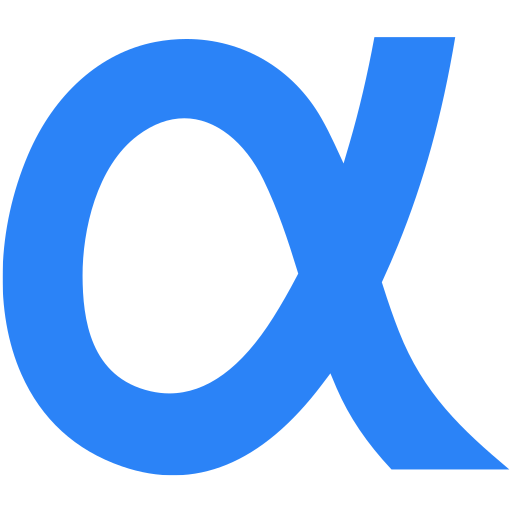
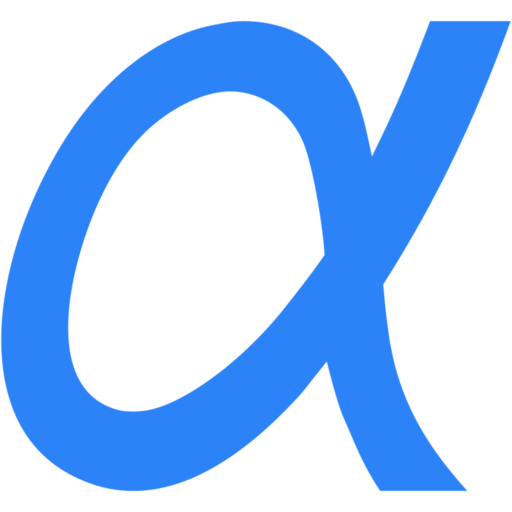
Fixing details (#8)
* corrected hrefs and some typo

* updated roadmap

* added final logo

* added hero logo

* clean old logos

* fixed links in footer

* updated favicon

* updated roadmap

diff --git a/pages/fr/home.html b/pages/fr/home.html
@@ -8,7 +8,7 @@ lang: fr
 
 <div class="top">
 	<div class="top-inside">
-		<h1>kema-dev</h1>
+		<img src="/assets/img/kema_mark_white.svg" class="title_logo" />
 		<h3 class="subtitle">Cybersécurité & Automatisation</h3>
 	</div>
 	<div class="hint">
@@ -23,16 +23,16 @@ lang: fr
 			<h4>Jérémy Jourdan</h4>
 			<p>25 ans</p>
 			<p>Étudiant a l'école 42</p>
-			<p>Passionné de programmation et d'high-tech</p>
-			<div class="link_linkedin">
+			<p>Passionné de cybersécurité et d'high-tech</p>
+			<a href="https://www.linkedin.com/in/jeremy-jourdan-kemadev/" target="_blank" class="link_linkedin">
 				<div class="linklogo"></div>
-				<a class="linktxt" href="https://www.linkedin.com/in/jeremy-jourdan-kemadev/" target="_blank" title="Mon profil LinkedIn">Mon profil LinkedIn</a>
-			</div>
-			<div class="link_cv">
+				<div class="linktxt" title="Mon profil LinkedIn">Mon profil LinkedIn</div>
+			</a>
+			<a href="/{{ page.lang }}/resume" class="link_cv">
 				<div class="linklogo"></div>
-				<a class="linktxt" href="/{{ page.lang }}/resume" title="Mon CV">Mon CV</a>
-			</div>
-		</div>
+				<div class="linktxt" title="Mon CV">Mon CV</div>
+			<a>
+		</a>
 	</div>
 </div>
 <div class="sep1"></div>
@@ -44,17 +44,20 @@ lang: fr
 		<div class="txt">
 			<h4>École 42 @ Lyon, France</h4>
 			<p>École unique en son genre, basée sur le peer-learning</p>
-			<div class="link_info">
+			<p>Pas de cours, pas de professeur, pas de classe</p>
+			<p>Pédagogie basée sur les projets</p>
+			<p>Gamification</p>
+			<a href="https://42lyon.fr/" target="_blank" class="link_info">
 				<div class="linklogo"></div>
-				<a class="linktxt" href="https://42lyon.fr/" target="_blank" title="Site web de mon ecole">En savoir plus</a>
-			</div>
+				<div class="linktxt" title="Site web de mon ecole">En savoir plus</div>
+			</a>
 		</div>
 	</div>
 </div>
 <div class="sep2"></div>
 
 <div class="article">
-	<h3 class="artitle">Qu'est ce qui est important pour moi : Faire des choix raisonnés</h3>
+	<h3 class="artitle">Ce qui est important pour moi : Faire des choix raisonnés</h3>
 	<div class="imgtxt">
 		<img class="img" src="../assets/img/tech_identity.jpg" alt="identite technologique" />
 		<div class="txt">
@@ -62,7 +65,8 @@ lang: fr
 			</p>
 			<div class="quote_etzioni">
 				<div class="quotelogo"></div>
-				<p class="citation">"AI is a tool. The choice about how it gets deployed is ours" - Oren Etzioni</p>
+				<p class="citation">"AI is a tool. The choice about how it gets deployed is ours"</p>
+				<p class="citation"> - Oren Etzioni</p>
 			</div>
 		</div>
 	</div>
@@ -70,7 +74,7 @@ lang: fr
 <div class="sep3"></div>
 
 <div class="article">
-	<h3 class="artitle">Qu'est ce qui est important pour moi : Protéger la vie privée</h3>
+	<h3 class="artitle">Ce qui est important pour moi : Protéger la vie privée</h3>
 	<div class="imgtxt">
 		<img class="img" src="../assets/img/privacy_face_full.jpg" alt="visage et vie privee" />
 		<div class="txt">
@@ -78,7 +82,8 @@ lang: fr
 			</p>
 			<div class="quote_snowden">
 				<div class="quotelogo"></div>
-				<p class="citation">"Arguing that you don't care about the right to privacy because you have nothing to hide is no different than saying you don't care about free speech because you have nothing to say" - Edward Snowden</p>
+				<p class="citation">"Arguing that you don't care about the right to privacy because you have nothing to hide is no different than saying you don't care about free speech because you have nothing to say"</p>
+				<p class="citation"> - Edward Snowden</p>
 			</div>
 		</div>
 	</div>
@@ -86,19 +91,20 @@ lang: fr
 <div class="sep4"></div>
 
 <div class="article">
-	<h3 class="artitle">Qu'est ce qui est important pour moi : Partager le savoir</h3>
+	<h3 class="artitle">Ce qui est important pour moi : Partager le savoir</h3>
 	<div class="imgtxt">
 		<img class="img" src="../assets/img/github_mark_logo.svg" alt="github mark" />
 		<div class="txt">
 			<p>Rendre les outils accessibles à tout le monde en promouvant le libre et l'open-source est une bonne manière de partager le savoir à quiconque est intéressé.
 			</p>
-			<div class="link_git">
+			<a href="https://github.com/kema-dev" target="_blank" class="link_git">
 				<div class="linklogo"></div>
-				<a class="linktxt" href="https://github.com/kema-dev" target="_blank" title="Ma page GitHub">Ma page GitHub</a>
-			</div>
+				<div class="linktxt" title="Ma page GitHub">Ma page GitHub</div>
+			</a>
 			<div class="quote_torvalds">
 				<div class="quotelogo"></div>
-				<p class="citation">"Only wimps use tape backup. Real men just upload their important stuff on ftp and let the rest of the world mirror it" - Linus Torvalds</p>
+				<p class="citation">"Only wimps use tape backup. Real men just upload their important stuff on ftp and let the rest of the world mirror it"</p>
+				<p class="citation"> - Linus Torvalds"</p>
 			</div>
 		</div>
 	</div>

diff --git a/pages/en/home.html b/pages/en/home.html
@@ -8,7 +8,7 @@ lang: en
 
 <div class="top">
 	<div class="top-inside">
-		<h1>kema-dev</h1>
+		<img src="/assets/img/kema_mark_white.svg" class="title_logo" />
 		<h3 class="subtitle">Cybersecurity & Automation</h3>
 	</div>
 	<div class="hint">
@@ -23,16 +23,16 @@ lang: en
 			<h4>Jérémy Jourdan</h4>
 			<p>25 years old</p>
 			<p>42 school student</p>
-			<p>Programming passionate and high-tech enthusiast</p>
-			<div class="link_linkedin">
+			<p>Cybersecurity passionate and high-tech enthusiast</p>
+			<a href="https://www.linkedin.com/in/jeremy-jourdan-kemadev/" target="_blank" class="link_linkedin">
 				<div class="linklogo"></div>
-				<a class="linktxt" href="https://www.linkedin.com/in/jeremy-jourdan-kemadev/" target="_blank" title="My LinkedIn profile">My LinkedIn
-					profile</a>
-			</div>
-			<div class="link_cv">
+				<div class="linktxt" title="My LinkedIn profile">My LinkedIn
+					profile</div>
+			</a>
+			<a href="/{{ page.lang }}/resume" class="link_cv">
 				<div class="linklogo"></div>
-				<a class="linktxt" href="/{{ page.lang }}/resume" title="My resume">My resume</a>
-			</div>
+				<div class="linktxt" title="My resume">My resume</div>
+			</a>
 		</div>
 	</div>
 </div>
@@ -45,10 +45,13 @@ lang: en
 		<div class="txt">
 			<h4>42 school @ Lyon, France</h4>
 			<p>One of a kind school, based on peer-learning</p>
-			<div class="link_info">
+			<p>No course, no teacher, no class</p>
+			<p>Project based pedagogy</p>
+			<p>Gamification</p>
+			<a href="https://42lyon.fr/" target="_blank" class="link_info">
 				<div class="linklogo"></div>
-				<a class="linktxt" href="https://42lyon.fr/" target="_blank" title="My school's website">Learn more</a>
-			</div>
+				<div class="linktxt" title="My school's website">Learn more</div>
+			</a>
 		</div>
 	</div>
 </div>
@@ -100,15 +103,15 @@ lang: en
 			<p>Making tools accessible to anyone by promoting free and open-source is a great way to spread knowledge to
 				anyone interested.
 			</p>
-			<div class="link_git">
+			<a href="https://github.com/kema-dev" target="_blank" class="link_git">
 				<div class="linklogo"></div>
-				<a class="linktxt" href="https://github.com/kema-dev" target="_blank" title="My GitHub profile">My GitHub page</a>
-			</div>
+				<div class="linktxt" title="My GitHub profile">My GitHub page</div>
+			</a>
 			<div class="quote_torvalds">
 				<div class="quotelogo"></div>
 				<p class="citation">"Only wimps use tape backup. Real men just upload their important stuff on ftp and let the
 					rest of the world mirror it" - Linus Torvalds</p>
 			</div>
-		</div>
+		</a>
 	</div>
 </div>

diff --git a/_sass/home.scss b/_sass/home.scss
@@ -34,6 +34,10 @@
 	margin: 0;
 	top: 3rem;
 	width: 100%;
+	.title_logo {
+		height: 15vh;
+		margin-bottom: 3vh;
+	}
 	.top {
 		height: 100vh;
 		position: relative;
@@ -88,7 +92,7 @@
 		position: relative;
 		display: flex;
 		flex-direction: row;
-		justify-content: left;
+		justify-content: center;
 		margin-bottom: 8vmin;
 		font: 2rem 'JetBrainsMono-Regular', sans-serif;
 		font-weight: 300;
@@ -96,6 +100,7 @@
 	.img {
 		display: flex;
 		position: relative;
+		min-width: 25vw;
 		max-width: 45vw;
 		object-fit: contain;
 		align-items: center;
@@ -131,10 +136,11 @@
 		background: url("../img/linkedin-brands.svg") no-repeat;
 		background-size: contain;
 		color: black;
+		width: fit-content;
 		&:hover {
 			background: url("../img/linkedin-brands_blue.svg") no-repeat;
 			background-size: contain;
-			margin-left: 1rem;
+			transform: translateX(1rem);
 			font-weight: 600;
 			color: #2b83f7f6;
 		}
@@ -160,10 +166,11 @@
 		background: url("../img/file-lines-solid.svg") no-repeat;
 		background-size: contain;
 		color: black;
+		width: fit-content;
 		&:hover {
 			background: url("../img/file-lines-solid_blue.svg") no-repeat;
 			background-size: contain;
-			margin-left: 1rem;
+			transform: translateX(1rem);
 			font-weight: 600;
 			color: #2b83f7f6;
 		}
@@ -190,10 +197,11 @@
 		background: url("../img/circle-info-solid.svg") no-repeat;
 		background-size: contain;
 		color: black;
+		width: fit-content;
 		&:hover {
 			background: url("../img/circle-info-solid_blue.svg") no-repeat;
 			background-size: contain;
-			margin-left: 1rem;
+			transform: translateX(1rem);
 			font-weight: 600;
 			color: #2b83f7f6;
 		}
@@ -219,10 +227,11 @@
 		background: url("../img/code-branch-solid.svg") no-repeat;
 		background-size: contain;
 		color: black;
+		width: fit-content;
 		&:hover {
 			background: url("../img/code-branch-solid_blue.svg") no-repeat;
 			background-size: contain;
-			margin-left: 1rem;
+			transform: translateX(1rem);
 			font-weight: 600;
 			color: #2b83f7f6;
 		}

diff --git a/pages/fr/privacy.html b/pages/fr/privacy.html
@@ -17,8 +17,8 @@ lang: fr
 	<h3 class="title">Qui est kemadev.fr</h3>
 	<p class="paragraph"><b>kemadev.fr</b> est le site personnel de <b>kema-dev</b>.</p>
 	<h3 class="title">Vos données</h3>
-	<p class="paragraph">Soyez assuré que vos données ne seront jamais loggées, analysées, exploitées ou stockées par kema-dev. Les fichiers source sont <a href="https://github.com/kema-dev/kemadev.fr" target="_blank" title="Depot du site web"> accessibles ici</a>.</p>
-	<p class="paragraph">Toutefois, ce site utilise des serveurs DNS de <a href="https://aws.amazon.com/" target="_blank" title="Site web de AWS">AWS</a> et est hébergé par <a href="https://pages.github.com/" target="_blank" title="Site web de GitHub Pages">GitHub Pages</a>.</p>
+	<p class="paragraph">Soyez assuré que vos données ne seront jamais loggées, analysées, exploitées ou stockées par kema-dev. Les fichiers source du site sont <a href="https://github.com/kema-dev/kemadev.fr" target="_blank" title="Depot du site web"> accessibles ici</a>.</p>
+	<p class="paragraph">Toutefois, ce site utilise des serveurs DNS <a href="https://aws.amazon.com/" target="_blank" title="Site web de AWS">AWS</a> et est hébergé par <a href="https://pages.github.com/" target="_blank" title="Site web de GitHub Pages">GitHub Pages</a>.</p>
 	<p class="paragraph">Envoyez toute réclamation à <a href="mailto:contact@kemadev.fr" target="_blank" title="Envoyez moi un email !">contact@kemadev.fr</a></p>
 	<h3 class="title">Your rights over your data</h3>
 	<p class="paragraph">

diff --git a/pages/en/privacy.html b/pages/en/privacy.html
@@ -17,7 +17,7 @@ lang: en
 	<h3 class="title">Who is kemadev.fr</h3>
 	<p class="paragraph"><b>kemadev.fr</b> is <b>kema-dev</b>'s personal website.</p>
 	<h3 class="title">Your data</h3>
-	<p class="paragraph">Please be assured that none of your data will ever be logged, analyzed, exploited or stored by kema-dev. Source files are <a href="https://github.com/kema-dev/kemadev.fr" target="_blank" title="Website's repository">accessible here</a>.</p>
+	<p class="paragraph">Please be assured that none of your data will ever be logged, analyzed, exploited or stored by kema-dev. Website's source files are <a href="https://github.com/kema-dev/kemadev.fr" target="_blank" title="Website's repository">accessible here</a>.</p>
 	<p class="paragraph">However, this website makes use of DNS servers from <a href="https://aws.amazon.com/" target="_blank" title="AWS' website">AWS</a> and is hosted by <a href="https://pages.github.com/" target="_blank" title="GitHub Pages' website">GitHub Pages</a>.</p>
 	<p class="paragraph">Send any claim to <a href="mailto:contact@kemadev.fr" target="_blank" title="Email me !">contact@kemadev.fr</a></p>
 	<h3 class="title">Your rights over your data</h3>

diff --git a/_includes/fr/footer.html b/_includes/fr/footer.html
@@ -1,14 +1,14 @@
 <div class="foot_div">
-  <div class="link_home">
+  <a href="/{{ page.lang }}/"  class="link_home">
     <div class="linklogo"></div>
-    <a class="linktxt" href="/{{ page.lang }}/" title="Page d'accueil">Accueil</a>
-  </div>
-  <div class="link_resume">
+    <div class="linktxt" title="Page d'accueil">Accueil</div>
+  </a>
+  <a href="/{{ page.lang }}/resume" class="link_resume">
+    <div href="/{{ page.lang }}/resume" class="linklogo"></div>
+    <div class="linktxt" title="Page de Ccntact">Contact</div>
+  </a>
+  <a href="/{{ page.lang }}/privacy" class="link_privacy">
     <div class="linklogo"></div>
-    <a class="linktxt" href="/{{ page.lang }}/resume" title="Page de Ccntact">Contact</a>
-  </div>
-  <div class="link_privacy">
-    <div class="linklogo"></div>
-    <a class="linktxt" href="/{{ page.lang }}/privacy" title="Page de politique de confidentialité">Politique de confidentialité</a>
-  </div>
+    <div class="linktxt" title="Page de politique de confidentialité">Politique de confidentialité</div>
+  </a>
 </div>

diff --git a/_includes/en/navigation.html b/_includes/en/navigation.html
@@ -3,7 +3,7 @@
     <div class="logoWrapper">
       <!-- <span class="stylish">kema</span>
       <span class="logo">dev</span> -->
-      <img src="/assets/img/kema_logo_white_blue.svg" alt="kema logo" class="logo">
+      <img src="/assets/img/kema_mark_white.svg" alt="kema logo" class="logo">
     </div>
   </a>
   <ul class="navigation">

diff --git a/_includes/fr/navigation.html b/_includes/fr/navigation.html
@@ -3,7 +3,7 @@
     <div class="logoWrapper">
       <!-- <span class="stylish">kema</span>
       <span class="logo">dev</span> -->
-      <img src="/assets/img/kema_logo_white_blue.svg" alt="kema logo" class="logo">
+      <img src="/assets/img/kema_mark_white.svg" alt="kema logo" class="logo">
     </div>
   </a>
   <ul class="navigation">

diff --git a/_sass/main.scss b/_sass/main.scss
@@ -1,6 +1,8 @@
 html {
   width: 100%;
   scrollbar-width: none;
+  -moz-osx-font-smoothing: grayscale;
+  -webkit-font-smoothing: antialiased;
 }
 
 body {

diff --git a/_sass/navbar.scss b/_sass/navbar.scss
@@ -15,7 +15,7 @@
   z-index: 1;
 
   .logo {
-    height: 6rem;
+    height: 2rem;
     margin-left: 2rem;
   }
 

diff --git a/docs/roadmap.md b/docs/roadmap.md
@@ -1,3 +1,4 @@
 # roadmap
 
-- finished for now !
+- fix footer icons growing unexpectedly
+- see if webkit / moz font smoothing fixed the problem of font-weight on mobile
